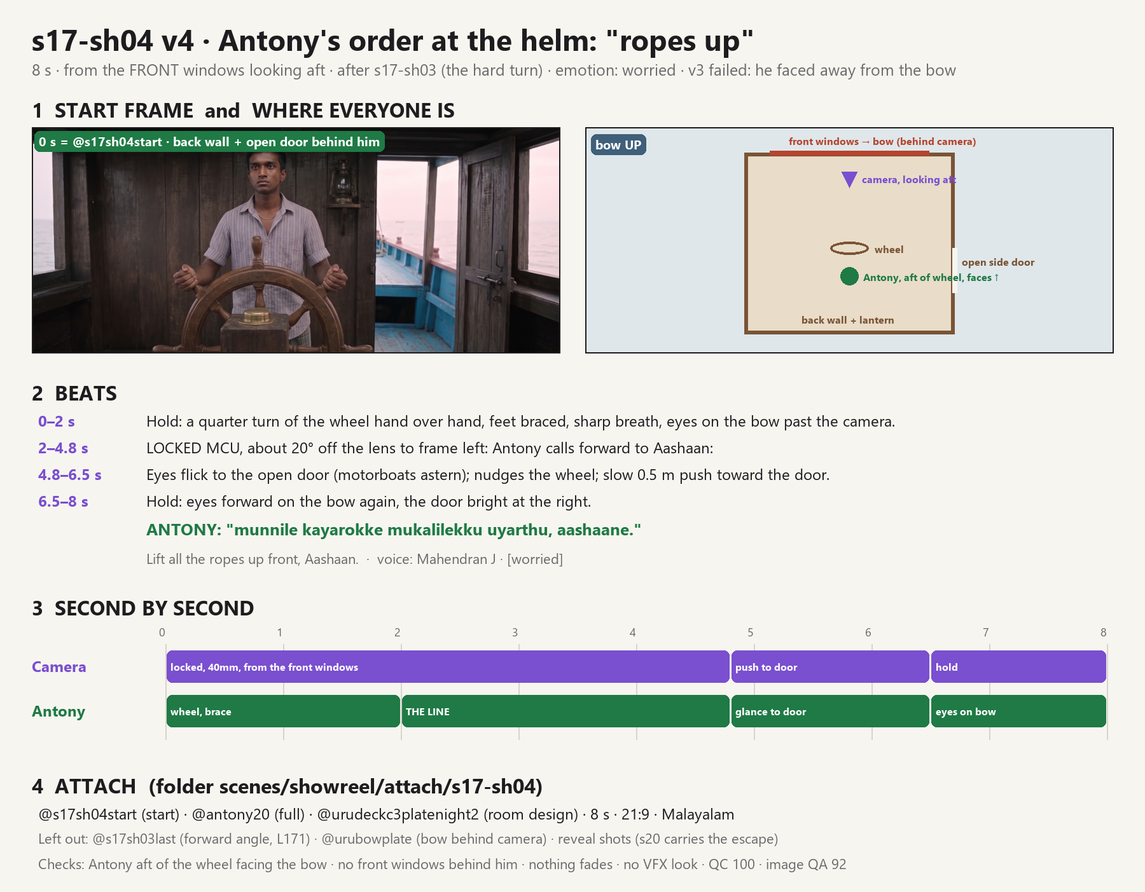
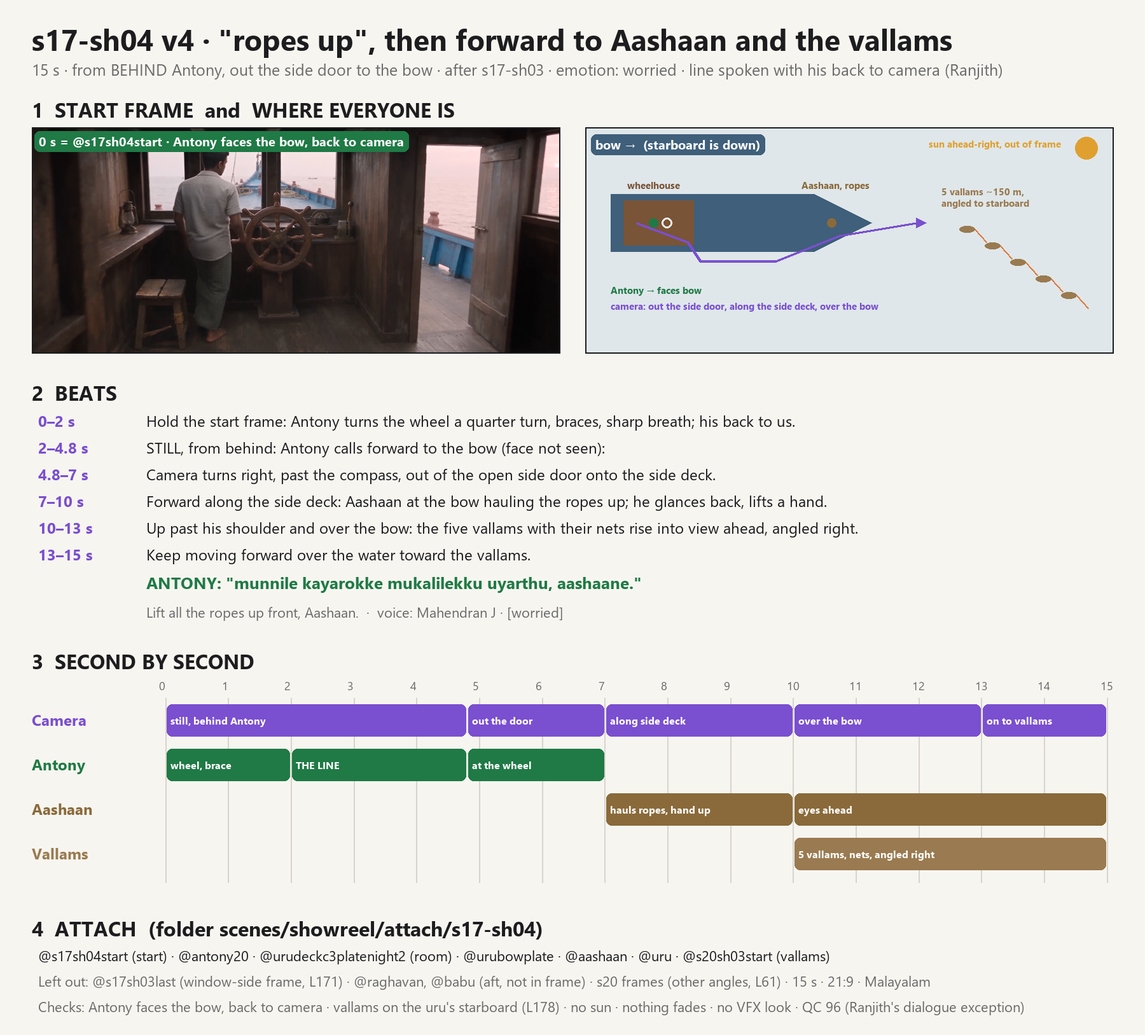
Ranjith: shot: s17-sh04 v4 rewritten (line from behind, travel to Aashaan at the bow and the five vallams, 15 s)

diff --git a/tools/shotsheets/s17-sh04.py b/tools/shotsheets/s17-sh04.py
@@ -1,45 +1,54 @@
-"""Clear sheet for s17-sh04 v4: Antony's order at the helm, from the front windows looking aft (SB025)."""
+"""Clear sheet for s17-sh04 v4: "ropes up" from behind Antony, then out of the side door to Aashaan at the bow and the five vallams (SB025)."""
 from PIL import Image, ImageDraw, ImageFont
 
 def F(sz, b=False):
     return ImageFont.truetype("C:/Windows/Fonts/" + ("segoeuib.ttf" if b else "segoeui.ttf"), sz)
 
 W = 1800
-INK, GREY, CAM, ANT, WOOD, SEA, WIN = "#1d1d1f", "#6b6b6b", "#7a4fd0", "#1f7a45", "#7a5436", "#3f5f7a", "#b5452f"
-im = Image.new("RGB", (W, 1700), "#f7f5f0"); d = ImageDraw.Draw(im)
+INK, GREY, CAM, ANT, AAS, WOOD, URU, VAL, SUN = "#1d1d1f", "#6b6b6b", "#7a4fd0", "#1f7a45", "#8a6a3a", "#7a5436", "#3f5f7a", "#9a7a50", "#e0a030"
+im = Image.new("RGB", (W, 1800), "#f7f5f0"); d = ImageDraw.Draw(im)
 def tag(xy, text, col, f=None):
     f = f or F(20, True); x, y = xy; tw = d.textlength(text, font=f)
     d.rounded_rectangle([x - 6, y - 4, x + tw + 8, y + 28], 8, fill=col); d.text((x + 1, y - 2), text, font=f, fill="white")
 
-d.text((50, 30), "s17-sh04 v4 · Antony's order at the helm: \"ropes up\"", font=F(46, True), fill=INK)
-d.text((50, 92), "8 s · from the FRONT windows looking aft · after s17-sh03 (the hard turn) · emotion: worried · v3 failed: he faced away from the bow", font=F(25), fill=GREY)
+d.text((50, 30), "s17-sh04 v4 · \"ropes up\", then forward to Aashaan and the vallams", font=F(46, True), fill=INK)
+d.text((50, 92), "15 s · from BEHIND Antony, out the side door to the bow · after s17-sh03 · emotion: worried · line spoken with his back to camera (Ranjith)", font=F(25), fill=GREY)
 
 y0 = 150
 d.text((50, y0), "1  START FRAME  and  WHERE EVERYONE IS", font=F(32, True), fill=INK)
 pw = 830; ph = int(pw / 2.333)
 a = Image.open("scenes/showreel/approved/sb025-chase/s17-sh04-start.png").convert("RGB").resize((pw, ph))
 im.paste(a, (50, y0 + 50)); d.rectangle([50, y0 + 50, 50 + pw, y0 + 50 + ph], outline=INK, width=2)
-tag((60, y0 + 60), "0 s = @s17sh04start · back wall + open door behind him", ANT)
-# top view of the wheelhouse: bow at the top
+tag((60, y0 + 60), "0 s = @s17sh04start · Antony faces the bow, back to camera", ANT)
+# top view: bow to the RIGHT, starboard is DOWN
 sx, sy, sw, sh = 920, y0 + 50, 830, ph
 d.rectangle([sx, sy, sx + sw, sy + sh], fill="#dfe7ea", outline=INK, width=2)
-rx0, ry0, rx1, ry1 = sx + 250, sy + 40, sx + 580, sy + sh - 30
-d.rectangle([rx0, ry0, rx1, ry1], fill="#e9dcc8", outline=WOOD, width=6)
-d.line([rx0 + 40, ry0, rx1 - 40, ry0], fill=WIN, width=8); d.text((rx0 + 70, ry0 - 30), "front windows → bow (behind camera)", font=F(16, True), fill=WIN)
-d.line([rx1, ry0 + 150, rx1, ry0 + 220], fill="#f7f5f0", width=8); d.text((rx1 + 12, ry0 + 160), "open side door", font=F(16, True), fill=WOOD)
-d.text((rx0 + 90, ry1 - 34), "back wall + lantern", font=F(16, True), fill=WOOD)
-cx = (rx0 + rx1) // 2
-d.ellipse([cx - 30, ry0 + 140, cx + 30, ry0 + 160], outline=WOOD, width=4); d.text((cx + 40, ry0 + 140), "wheel", font=F(16, True), fill=WOOD)
-d.ellipse([cx - 14, ry0 + 180, cx + 14, ry0 + 208], fill=ANT); d.text((cx + 22, ry0 + 184), "Antony, aft of wheel, faces ↑", font=F(16, True), fill=ANT)
-d.polygon([(cx - 12, ry0 + 30), (cx + 12, ry0 + 30), (cx, ry0 + 55)], fill=CAM); d.text((cx + 20, ry0 + 30), "camera, looking aft", font=F(16, True), fill=CAM)
-tag((sx + 15, sy + 15), "bow UP", SEA)
+my = sy + 150
+d.polygon([(sx + 40, my - 45), (sx + 360, my - 45), (sx + 450, my), (sx + 360, my + 45), (sx + 40, my + 45)], fill=URU)
+d.rectangle([sx + 60, my - 35, sx + 170, my + 35], fill=WOOD); d.text((sx + 66, my - 70), "wheelhouse", font=F(15, True), fill=WOOD)
+d.ellipse([sx + 120, my - 8, sx + 136, my + 8], outline="white", width=3)
+d.ellipse([sx + 100, my - 7, sx + 114, my + 7], fill=ANT); d.text((sx + 40, my + 95), "Antony → faces bow", font=F(15, True), fill=ANT)
+d.ellipse([sx + 380, my - 7, sx + 394, my + 7], fill=AAS); d.text((sx + 340, my - 70), "Aashaan, ropes", font=F(15, True), fill=AAS)
+path = [(sx + 80, my), (sx + 160, my + 30), (sx + 180, my + 60), (sx + 300, my + 60), (sx + 400, my + 20), (sx + 520, my)]
+d.line(path, fill=CAM, width=4)
+d.polygon([(sx + 520, my - 8), (sx + 520, my + 8), (sx + 536, my)], fill=CAM)
+d.text((sx + 40, my + 120), "camera: out the side door, along the side deck, over the bow", font=F(15, True), fill=CAM)
+for i in range(5):
+    vx, vy = sx + 600 + i * 40, my + 10 + i * 26
+    d.ellipse([vx - 12, vy - 5, vx + 12, vy + 5], fill=VAL)
+    d.line([vx + 12, vy, vx + 30, vy + 20], fill="#e07a40", width=2)
+d.text((sx + 560, my - 60), "5 vallams ~150 m,", font=F(15, True), fill=VAL); d.text((sx + 560, my - 42), "angled to starboard", font=F(15, True), fill=VAL)
+d.ellipse([sx + 770, sy + 15, sx + 805, sy + 50], fill=SUN); d.text((sx + 540, sy + 15), "sun ahead-right, out of frame", font=F(15, True), fill=SUN)
+tag((sx + 15, sy + 15), "bow →  (starboard is down)", URU)
 
 y1 = y0 + 90 + ph
 d.text((50, y1), "2  BEATS", font=F(32, True), fill=INK)
-beats = [("0–2 s", "Hold: a quarter turn of the wheel hand over hand, feet braced, sharp breath, eyes on the bow past the camera."),
-         ("2–4.8 s", "LOCKED MCU, about 20° off the lens to frame left: Antony calls forward to Aashaan:"),
-         ("4.8–6.5 s", "Eyes flick to the open door (motorboats astern); nudges the wheel; slow 0.5 m push toward the door."),
-         ("6.5–8 s", "Hold: eyes forward on the bow again, the door bright at the right.")]
+beats = [("0–2 s", "Hold the start frame: Antony turns the wheel a quarter turn, braces, sharp breath; his back to us."),
+         ("2–4.8 s", "STILL, from behind: Antony calls forward to the bow (face not seen):"),
+         ("4.8–7 s", "Camera turns right, past the compass, out of the open side door onto the side deck."),
+         ("7–10 s", "Forward along the side deck: Aashaan at the bow hauling the ropes up; he glances back, lifts a hand."),
+         ("10–13 s", "Up past his shoulder and over the bow: the five vallams with their nets rise into view ahead, angled right."),
+         ("13–15 s", "Keep moving forward over the water toward the vallams.")]
 yy = y1 + 50
 for t, s in beats:
     d.text((60, yy), t, font=F(24, True), fill=CAM); d.text((230, yy), s, font=F(24), fill=INK); yy += 42
@@ -48,10 +57,12 @@ d.text((230, yy), "Lift all the ropes up front, Aashaan.  ·  voice: Mahendran J
 
 y2 = yy + 70
 d.text((50, y2), "3  SECOND BY SECOND", font=F(32, True), fill=INK)
-tx, tw_ = 260, 1480; ty = y2 + 80; S = 8
-rows = [("Camera", CAM, [(0, 4.8, "locked, 40mm, from the front windows"), (4.8, 6.5, "push to door"), (6.5, 8, "hold")]),
-        ("Antony", ANT, [(0, 2, "wheel, brace"), (2, 4.8, "THE LINE"), (4.8, 6.5, "glance to door"), (6.5, 8, "eyes on bow")])]
-for sec in range(0, 9):
+tx, tw_ = 260, 1480; ty = y2 + 80; S = 15
+rows = [("Camera", CAM, [(0, 4.8, "still, behind Antony"), (4.8, 7, "out the door"), (7, 10, "along side deck"), (10, 13, "over the bow"), (13, 15, "on to vallams")]),
+        ("Antony", ANT, [(0, 2, "wheel, brace"), (2, 4.8, "THE LINE"), (4.8, 7, "at the wheel")]),
+        ("Aashaan", AAS, [(7, 10, "hauls ropes, hand up"), (10, 15, "eyes ahead")]),
+        ("Vallams", VAL, [(10, 15, "5 vallams, nets, angled right")])]
+for sec in range(0, 16):
     x = tx + tw_ * sec / S; d.line([x, ty, x, ty + 70 * len(rows) + 10], fill="#d8d4cc", width=2); d.text((x - 10, ty - 32), f"{sec}", font=F(18), fill=GREY)
 for i, (lab, col, segs) in enumerate(rows):
     yy = ty + 10 + i * 70; d.text((50, yy + 8), lab, font=F(24, True), fill=col)
@@ -64,9 +75,9 @@ for i, (lab, col, segs) in enumerate(rows):
 
 y3 = ty + 70 * len(rows) + 60
 d.text((50, y3), "4  ATTACH  (folder scenes/showreel/attach/s17-sh04)", font=F(32, True), fill=INK)
-d.text((60, y3 + 50), "@s17sh04start (start) · @antony20 (full) · @urudeckc3platenight2 (room design) · 8 s · 21:9 · Malayalam", font=F(24), fill=INK)
-d.text((60, y3 + 90), "Left out: @s17sh03last (forward angle, L171) · @urubowplate (bow behind camera) · reveal shots (s20 carries the escape)", font=F(22), fill=GREY)
-d.text((60, y3 + 130), "Checks: Antony aft of the wheel facing the bow · no front windows behind him · nothing fades · no VFX look · QC 100 · image QA 92", font=F(22), fill=GREY)
+d.text((60, y3 + 50), "@s17sh04start (start) · @antony20 · @urudeckc3platenight2 (room) · @urubowplate · @aashaan · @uru · @s20sh03start (vallams)", font=F(22), fill=INK)
+d.text((60, y3 + 90), "Left out: @s17sh03last (window-side frame, L171) · @raghavan, @babu (aft, not in frame) · s20 frames (other angles, L61) · 15 s · 21:9 · Malayalam", font=F(22), fill=GREY)
+d.text((60, y3 + 130), "Checks: Antony faces the bow, back to camera · vallams on the uru's starboard (L178) · no sun · nothing fades · no VFX look · QC 96 (Ranjith's dialogue exception)", font=F(22), fill=GREY)
 im = im.crop((0, 0, W, y3 + 190))
 im.save("scenes/showreel/storyboards/s17-sh04-clear.png")
 print(im.size)

diff --git a/scenes/showreel/s17-sh04.md b/scenes/showreel/s17-sh04.md
@@ -1,91 +1,99 @@
-# s17-sh04 · SB025 — Antony's order at the helm: "ropes up" · 8 s · v4
-Status: **ready (Ranjith, 2026-11-24)** · Malayalam dialogue · start image `@s17sh04start` (new reverse angle: from the front windows looking aft, Antony behind the wheel facing the bow and the camera, the back wall and the open side door behind him) · v3 kept in `retired/s17-sh04-v3.md`
+# s17-sh04 · SB025 — Antony's order at the helm, then forward to Aashaan at the bow and the five vallams ahead · 15 s · v4
+Status: **ready (Ranjith, 2026-11-24)** · Malayalam dialogue (spoken with his back to the camera, Ranjith's ask) · start image `@s17sh04start` (the first frame of the v3 take 2: inside the wheelhouse from behind, Antony aft of the wheel facing the bow, his back to the camera) · v3 kept in `retired/s17-sh04-v3.md`
 Created by: Ranjith
-v4 (Ranjith, 2026-11-24): the v3 takes put Antony on the window side of the wheel, facing the camera with the bow windows behind him, so he steered looking away from the bow (Ranjith: "logically correct. Incorrect."). L171: a face shot of the helmsman needs its own start frame from the front windows looking aft; a camera glide inside the shot does not work. Ranjith chose the camera **Use this camera move** (new start frame from the front windows looking aft, locked for the line, then a slow push toward the open door) and **only the order, about 8 s**: the escape reveal is carried by s20-sh01 to s20-sh05.
-Story: after the hard turn (Part A, s17-sh03), Antony at the wheel calls forward to Aashaan at the bow to lift the ropes at the front (storyboard SB025, line 3), then glances to the side door, toward the motorboats astern.
-Camera: inside the wheelhouse, beside the front windows (behind the camera, never in frame), 1.6 m up, 40mm, looking aft at Antony behind the wheel; locked through the line; then a slow push of about 0.5 m toward the open side door on the right as his eyes go to it.
+v4 (Ranjith, 2026-11-24): the v3 takes turned Antony round to face the camera with the bow windows behind him, so he steered looking away from the bow (Ranjith: "logically correct. Incorrect."). A face-on start frame from the front invented a back wall the wheelhouse does not have (Ranjith: "the wheelshouse is not like that right"). Ranjith's fix: "antony should stand looking at the direction of bow" and "the camera can show his back and he tells the dialogue and it should show ashan who walked to the front and the camera should travel and then show the 5 vallams and camera should move on". So the camera stays behind Antony for the line, then travels out of the side door and forward along the side deck to Aashaan at the bow, and on past the bow to the five vallams ahead, and keeps moving. Camera: Ranjith's own move.
+Story: after the hard turn (Part A, s17-sh03), Antony at the wheel calls forward to Aashaan at the bow to lift the ropes at the front (storyboard SB025, line 3); Aashaan, already at the bow, hauls the bow ropes up off the deck; ahead lie the five fishing vallams with their nets, where the uru is going (they set up s20).
 Dialogue (storyboard SB025, authoritative Manglish: munnile kayar oke mukallilekyu uyarth ashaane): ANTONY — മുന്നിലെ കയറൊക്കെ മുകളിലേക്ക് ഉയർത്ത്, ആശാനേ.
 MANG: munnile kayarokke mukalilekku uyarthu, aashaane. EN: Lift all the ropes up front, Aashaan.
 Voice: Antony = **Mahendran J**. Scene emotion: [worried] (one for SB025).
-Lessons applied: L171 (helmsman aft of the wheel facing the bow; face shot from the front windows, back wall behind him; reverse angle on its own start frame), L83 (he keeps moving), L141, L147, L159, L160, checklist 190–201 (195 no VFX; 201 nothing fades).
-Attach: `@s17sh04start` (start image), `@antony20` (full), `@urudeckc3platenight2` (the room's design). No end image. Remove every other attachment (L88). **8 s.** 21:9, Malayalam.
-Left out: `@s17sh03last` (the forward-looking angle that caused the flip, L171/L61); `@urubowplate` (the bow is behind the camera, never in frame); `@uru`, `@raghavan`, `@babu`, `@s17sh01last` (the reveal is cut; s20 shots carry it); `@aashaan` (at the bow, behind the camera).
+Dialogue rule exception (Ranjith, 2026-11-24): Antony says his line with his back to the camera, calling forward to the bow; his face is not shown. The rest of the dialogue block stays (one speaker, nobody else speaks, the camera holds still during the line).
+Geometry (L178, for s20): the five vallams lie ahead in a line angled to the RIGHT of the uru's course; the uru heads for the left end of the line, so it passes the nets with the vallams on its starboard (right) side, as in s20-sh04 and s20-sh05. The low sun is ahead-right of the bow, kept just out of frame at the right.
+Lessons applied: L171 (the helmsman aft of the wheel facing the bow; no swing round), L178 (vallams on the uru's starboard), L170 (things enter from a frame edge as the camera moves), L83 (everyone moving), L141, L147, L159, L160, checklist 190–201 (195 no VFX; 201 nothing fades).
+Attach: `@s17sh04start` (start image), `@antony20` (full, 0–7 s), `@urudeckc3platenight2` (the room's design, 0–7 s), `@urubowplate` (the bow deck, 0–15 s), `@aashaan` (full, 6–15 s), `@uru` (full, 6–15 s), `@s20sh03start` (reference: the five vallams with their float lines, 9–15 s). No end image. Remove every other attachment (L88). **15 s.** 21:9, Malayalam.
+Left out: `@s17sh03last` (Part A's frame with Antony on the window side, the cause of the flip, L171); `@raghavan`, `@babu` (on the top deck aft, never in frame); `@s20sh04last` and the other s20 frames (other angles, L61; they come later).
 Platform: upload `approved/sb025-chase/s17-sh04-start.png` as `@s17sh04start`.
 Attach folder: `scenes/showreel/attach/s17-sh04/`
 Storyboard: `scenes/showreel/storyboards/s17-sh04-clear.png` (never attached)
-Image QA of @s17sh04start: 92/100. Antony matches `@antony20` (lavender-grey thin-striped shirt, sleeves rolled once, silver chain, checked mundu, combed-back hair); he stands aft of the wheel facing the camera and the bow; behind him the plank back wall with the lantern on its bracket and the plank side door standing open on the right onto the blue side deck and the hazy sea; the room's plank walls, beams and wheel match the wheelhouse plate; no front windows behind him (only the side windows at the frame edges); reads as real footage. Flag: his eyes are near the lens in the image; the prompt sets them about 20 degrees off to frame left, on the bow.
-PROMPT QA — s17-sh04 v4 · Score 100/100 · Ready (qc_panel.py 100).
+Image QA of @s17sh04start: 93/100. The real wheelhouse (three square front windows with the blue bow deck, mast and rope coils, the spoked wheel with the brass hub, compass and telegraph on the sill, lantern on the left shelf, stool, open plank door on the right onto the blue side deck); Antony matches `@antony20` from behind (lavender-grey shirt, checked mundu, barefoot), aft of the wheel facing the bow; reads as real footage. Flag: a bright sun glint at the top right edge through the side window; the prompt keeps the sun out of frame.
+PROMPT QA — s17-sh04 v4 · Score 96/100 · Ready, with Ranjith's exception (qc_panel.py 96): the only flag is the DIALOGUE RULES block, replaced on purpose because the standard block (face to camera in MCU) is what turned Antony round to face away from the bow; Ranjith asked for the line with his back to the camera.
 
 ## Prompt
 ```text
 SCENE CONTEXT
-Dawn, 1998, open sea in Sri Lankan waters. Inside the small wooden wheelhouse at the front of our uru's deckhouse. Antony has the wheel; the uru has just come round hard past the end of a line of fishing nets with three motorboats close behind. He stands in the helmsman's place behind the wheel, facing the bow and the front windows, and calls one Malayalam order forward to the old skipper at the bow, then glances to the open side door. The camera is at the front of the wheelhouse beside the front windows, looking aft at him: the front windows and the bow are behind the camera; behind Antony is the back wall and the open side door. One continuous shot, 8 seconds, starting exactly on the start frame. Emotion (one, for the whole shot): worried. Only Antony speaks, only in Malayalam, while he is alone in frame.
+Dawn, 1998, open sea in Sri Lankan waters. Inside the small wooden wheelhouse at the front of our uru's deckhouse, seen from behind: Antony has the wheel, the uru has just come out of a hard turn with three motorboats close behind, and he stands behind the wheel facing the bow through the three front windows, his back to the camera. He calls one Malayalam order forward to Aashaan at the bow. Then the camera travels out of the open side door and forward along the side deck to Aashaan at the bow, who is hauling the bow ropes up off the deck, and on past the bow to the five fishing vallams with their nets ahead, where the uru is going, and keeps moving. One continuous shot, 15 seconds, starting exactly on the start frame. Emotion (one, for the whole shot): worried. Only Antony speaks, only in Malayalam.
 SPOKEN LANGUAGE: Malayalam. Every spoken word in this video is the exact Malayalam text given in quotes in AUDIO. No English words are spoken.
 
 MEMORY
-Place: the small wooden wheelhouse exactly as in the start frame, seen from its front, looking aft: the weathered dark plank back wall with an oil lantern on an iron bracket, beams overhead, a narrow side window at each edge of the frame with the hazy sea in it; on the right wall the plank door with its iron bolt standing open onto the uru's blue side deck and blue bulwark, the pale pink-grey dawn sea and sky beyond. In the foreground the spoked wooden wheel, about 90 cm across, eight spokes with turned handles, a brass hub on a square timber pedestal.
-Antony: behind the wheel, on its aft side, facing the camera and the bow.
-Light: hazy pink-grey dawn daylight about 5800K coming in through the front windows behind the camera, soft and even on Antony's face; the doorway bright pale pink.
-FIRST FRAME (0.0s): exactly the start frame: Antony behind the wheel facing the camera, both hands on the spokes, the back wall, the lantern and the open side door behind him.
+Place, inside: the small wooden wheelhouse exactly as in the start frame, seen from behind the wheel looking forward: three square front windows in thick dark wooden frames with iron latches; through them the uru's blue bow deck with blue bulwarks, red-brown bitts and coir rope coils, the mast, and the calm hazy pink-grey sea; the spoked wooden wheel with a brass hub on a square timber pedestal; a brass compass and an engine-telegraph lever on the sill at the right; the oil lantern on the shelf on the left wall and a small wooden stool; the weathered plank wall on the right with the plank door standing open onto the blue side deck and the sea.
+Place, outside: the uru's blue starboard side deck and blue bulwark running forward to the bow; the blue triangular bow deck rising to the pointed stem, red-brown mooring bitts in pairs, big coir rope coils; ahead, about 150 m off, five small wooden fishing vallams in a line angled away to the RIGHT of the uru's course, fishermen standing in them, their nets in the water marked by lines of small white and orange floats.
+People: Antony at the wheel; Aashaan at the bow, not visible from the wheelhouse until the camera reaches the side deck; the fishermen in the vallams.
+Light: hazy pink-grey dawn, soft daylight about 5800K; the low sun ahead-right of the bow, always just out of frame at the right; the sea calm grey-pink with a low swell.
+FIRST FRAME (0.0s): exactly the start frame: from behind, Antony standing aft of the wheel facing the front windows and the bow, his back to the camera, his right hand on the wheel; the three front windows with the blue bow deck and the sea; the lantern and the stool at the left; the open side door at the right.
 
 ACTIVE REFERENCES
-@s17sh04start (start frame, 0.0s): the exact first frame: Antony behind the spoked wheel, facing the camera and the bow, the plank back wall with the lantern behind him, the open side door on the right with the blue side deck and the hazy sea. Everything starts exactly as in this image.
-@antony20 (full, 0.0s–8.0s): Antony, the young sailor, the only speaker, alone in frame: a young Kerala man about 22, round youthful clean-shaven face, short black hair combed back with a few loose strands, the lavender-grey and white thin vertical striped short-sleeve shirt with the sleeves rolled once, a thin silver chain, the grey-green checked mundu, barefoot. A native Malayalam speaker from the Kollam coast; a firm young male voice, slightly out of breath. 100% matches the reference.
-@urudeckc3platenight2 (the room's design, 0.0s–8.0s): our wheelhouse exactly as built on this plate: the weathered plank walls, the spoked wooden wheel with its brass hub on the square timber pedestal, the lantern, the plank door with the iron bolt, the beams overhead. It is a night view; take the room, the materials and every fixture from it, NOT its night, NOT its moon, NOT its lit lantern, and NOT its camera angle. 100% matches the reference.
+@s17sh04start (start frame, 0.0s): the exact first frame: the wheelhouse from behind, Antony aft of the wheel facing the bow, his back to the camera, the three front windows with the bow deck, the lantern and stool at the left, the open side door at the right. Everything starts exactly as in this image.
+@antony20 (full, 0.0s–7.0s): Antony, the young sailor, the only speaker, seen from behind: a young Kerala man about 22, short black hair combed back, the lavender-grey and white thin vertical striped short-sleeve shirt with the sleeves rolled once, the grey-green checked mundu, barefoot. A native Malayalam speaker from the Kollam coast; a firm young male voice, slightly out of breath. 100% matches the reference.
+@urudeckc3platenight2 (the room's design, 0.0s–7.0s): our wheelhouse exactly as built on this plate: the weathered plank walls, the three square front windows with iron latches, the spoked wooden wheel with its brass hub on the square timber pedestal, the brass compass and the engine-telegraph lever on the sill, the lantern on the shelf on the left wall, the stool, the plank door on the right wall, the beams overhead. It is a night view; take the room from it, NOT its night, NOT its moon, NOT its lit lantern. 100% matches the reference.
+@urubowplate (the bow deck, 0.0s–15.0s): our uru's bow: the blue-painted triangular bow deck rising to the pointed stem, low blue bulwarks with red-brown posts, red-brown mooring bitts, the coir rope coils. It is a night plate; take the bow from it, lit by the pink-grey dawn, NOT its night and NOT its lit lantern. 100% matches the reference.
+@aashaan (full, 6.0s–15.0s): Aashaan the old skipper at the bow: about 60, grey hair combed back, grey moustache, a cream half-sleeve shirt open over a white vest, a white towel on his left shoulder, a white mundu. 100% matches the reference.
+@uru (full, 6.0s–15.0s): our uru, of which the side deck, the bulwark, the bow and the mast are in frame. 100% matches the reference.
+@s20sh03start (reference for the vallams, 9.0s–15.0s): the five small wooden fishing vallams with fishermen standing in them and their nets marked by lines of small white and orange floats on the calm dawn sea. Take the vallams, the floats and the fishermen from it; this shot sees them from the uru's bow, about 150 m ahead. 100% matches the reference.
 
-THE HELM (most important)
-Antony stands on the AFT side of the wheel, between the wheel and the back wall, facing the bow, which is behind the camera; the wheel is between him and the camera the whole time. He never steps round the wheel, never stands between the wheel and the camera, and never turns his back to the camera. Behind him there is only the back wall, the lantern and the open side door; the front windows and the bow are never in the frame. From 2.0s to 4.8s he calls his one Malayalam line forward to Aashaan at the bow in a medium close-up, his face about a third of the frame height, toward the camera about 20 degrees off the lens to frame left, looking past the camera at the bow, head steady, mouth fully visible, alone in frame.
+ANTONY AT THE WHEEL (most important)
+Antony stands aft of the wheel the whole time, facing the bow and the front windows, his back to the camera; he never turns round to face the camera and never steps to the window side of the wheel. From 2.0s to 4.8s he calls his one Malayalam line forward through the windows to Aashaan at the bow, his head up and pushed a little forward to throw his voice, both hands on the spokes; the camera stays still behind him while he speaks. His face is not seen; only his voice carries the line.
 
 FORMAT MODE
-One continuous shot, 8 seconds, real time, no cut, no slow motion, 21:9 cinematic. Runs the full 8 seconds.
+One continuous shot, 15 seconds, real time, no cut, no slow motion, 21:9 cinematic. Runs the full 15 seconds.
 
 CAMERA AND ACTION
-The camera stands at the front of the wheelhouse beside the front windows, 1.6 m up, a 40mm lens, looking aft at Antony over the wheel.
-0.0s to 2.0s — Hold on the start frame: Antony turns the wheel a quarter turn to the right, hand over hand, then holds it, bracing his feet wide; a sharp breath in, his eyes forward past the camera on the bow.
-2.0s to 4.8s — Locked: he calls his line forward to Aashaan at the bow, head steady, both hands on the spokes, eyes on the bow about 20 degrees off the lens to frame left.
-4.8s to 6.5s — His eyes flick to the open side door on the right, toward the motorboats astern; his jaw sets; he nudges the wheel back a spoke; the camera pushes slowly about 0.5 m toward the open door, Antony moving to the left of the frame, the doorway and the bright hazy sea growing at the right.
-6.5s to 8.0s — Hold: Antony back at the wheel, eyes forward on the bow again, the open door bright at the right.
+One smooth continuous handheld-steadied camera move, 1.6 m up, 28mm.
+0.0s to 2.0s — Hold on the start frame: Antony grips the wheel with both hands and turns it a quarter turn to the right, hand over hand, then holds it, bracing his feet wide; his shoulders rise with a sharp breath.
+2.0s to 4.8s — Still: from behind, Antony calls his line forward through the windows to the bow, his head up, both hands on the spokes, his back to the camera.
+4.8s to 7.0s — The camera turns right and glides past the compass and the telegraph lever to the open side door and out through it onto the blue starboard side deck, Antony leaving the frame at the left; it turns to look forward along the side deck and the blue bulwark toward the bow.
+7.0s to 10.0s — The camera travels forward along the side deck toward the bow, rising a little; Aashaan comes into view at the bow from the frame edge as the camera moves, bent over the coir rope coils, hauling the ropes up off the deck hand over hand and coiling them high on the bitts; he glances back toward the wheelhouse and lifts one hand.
+10.0s to 13.0s — The camera rises past Aashaan's right shoulder and over the bow, the stem and the bow deck in the lower frame, and the five fishing vallams come up into view ahead from the bottom of the frame upward, about 150 m off, in a line angled away to the right, the fishermen standing, their float lines across the water.
+13.0s to 15.0s — The camera keeps moving forward over the water ahead of the bow toward the vallams, slowly, the bow stem just below the frame, the vallams growing a little larger.
 
 EYELINES
-0.0s–4.8s: forward past the camera at the bow, about 20 degrees off the lens to frame left, level; never into the lens. 4.8s–6.5s: to the open side door on the right. 6.5s–8.0s: forward on the bow again.
+0.0s–4.8s: Antony looks forward through the windows at the bow. Aashaan, from 7.0s: down at the ropes, a glance back at the wheelhouse at 9.0s, then ahead at the vallams. The fishermen look at the uru coming. Nobody looks into the lens.
 
 DIALOGUE RULES
-Dialogue rules: whenever a character speaks, frame them in a medium close-up with their face filling at least a third of the frame height. The speaking face is turned toward the camera, no more than 30 degrees from the lens, upright and not lying sideways. Only one person speaks in the shot; everyone else keeps their mouth closed. The speaker's head stays steady during the line; head turns, gestures and camera moves happen only in pauses between lines. The mouth is always fully visible, with nothing in front of the face, and the face is lit with soft, even frontal light. Natural, clearly articulated mouth movements matching the dialogue.
+Only one person speaks in the shot: Antony; everyone else keeps their mouth closed. Antony says his line with his back to the camera, calling forward to the bow; his face is not in the frame while he speaks. The camera holds still while he speaks; camera moves happen only after the line. The voice is clear, close and natural, matching his breath and the movement of his head.
 
 ACTING & MICRO-EXPRESSION
-Breath fast and high, nostrils flared; the jaw set and the knuckles pale on the spokes; on the brace the brows pull hard together and the eyes narrow; during the line the eyes fixed on the bow with one blink, the chin up to throw the voice forward, certain, not panicked; after it a hard swallow and the quick glance to the door.
+Antony from behind: the shoulders up and tight, the knuckles pale on the spokes, the head pushed forward to throw the voice, a hard breath in before the line, the back settling as he holds the wheel after it. Aashaan: an old sailor's sure hands on the rope, quick and steady, no hurry and no wasted movement; the raised hand saying he heard.
 
 CAPTURE IMPERFECTIONS
-A constant small vibration from the engine; 1.0s a slight jolt as the hull bites into the turn; 5.5s a soft focus breath as the camera pushes toward the door.
+A constant small vibration from the engine; 1.0s a slight jolt as the hull comes out of the turn; 5.5s the frame brushes past the door frame edge as it goes out; 8.0s spray from the bow wave drifts past the lens edge; 12.0s a slight focus breath as the vallams come into view.
 
 REAL-WORLD PHYSICS
-The uru, about 30 tonnes of wood, moves at about 13 km/h, coming upright out of its hard turn, heeled about 3 degrees at the start; the wheel's rudder chain pulls against his hands, and each turn takes his whole arms; through the open door the sea slides slowly past; the lantern sways a little on its bracket with the roll. Wind about 15 km/h through the door lifts his loose strands of hair. Nothing moves by itself; every movement has a cause.
+The uru, about 30 tonnes of wood, moves at about 13 km/h, coming upright out of its turn, rolling gently on the low swell; the wheel's rudder chain pulls against Antony's hands; the coir ropes are heavy and wet, coming up off the deck in loops; the bow lifts and settles on the swell, throwing a white bow wave; the vallams rise and fall where they lie. Wind about 15 km/h lifts hair and the towel on Aashaan's shoulder. Nothing moves by itself; every movement has a cause.
 
 PERFORMANCE
-A young sailor in command for the first time: fast hands, a clear order, the fear held down. Always moving, never stiff.
+Urgent and real, never stiff: a young sailor's first order at the wheel and the old skipper answering it at once with his hands; the danger behind, the way out ahead.
 
 LIGHTING
-Soft, even pink-grey dawn daylight about 5800K on Antony's face from the front windows behind the camera; warm dark wood around him; the open doorway bright pale pink, never blown out; no golden light.
+Inside: the soft pink-grey dawn through the front windows, warm dark wood, Antony a dark shape against the bright windows with soft light on his shoulders. Outside: the same soft pink-grey dawn, about 5800K, the low sun just out of frame at the right, warm light on Aashaan and the bow, the sea bright but never blown out; no golden light.
 
 AUDIO
-Sound effects only — natural on-location sound, the soundtrack carries no music. No music at all: no score, no background music, no song, no humming, and no cinematic sound design: no riser, no whoosh, no swell. The outboards screaming astern through the open door; the rudder chain; the creaking wheel; the hull groaning out of the turn; his hard breathing; his bare feet bracing on the boards.
-Spoken language: Malayalam only, not English and not a translation. Antony says the exact Malayalam words written in quotes below, in everyday Kollam coastal Malayalam pronunciation, and nothing else. Lip-sync exact; every word is spoken on camera by Antony, who is alone in frame. The line is spoken once, exactly as written. The dialogue language is Malayalam.
+Sound effects only — natural on-location sound, the soundtrack carries no music. No music at all: no score, no background music, no song, no humming, and no cinematic sound design: no riser, no whoosh, no swell. Inside: the outboards screaming astern, the rudder chain, the creaking wheel, his hard breathing and bare feet on the boards. Outside: the wind, the hiss of the bow wave, the heavy slap of the wet ropes on the deck, Aashaan's breath as he hauls; far ahead, the fishermen's distant calls, no words heard.
+Spoken language: Malayalam only, not English and not a translation. Antony says the exact Malayalam words written in quotes below, in everyday Kollam coastal Malayalam pronunciation, and nothing else. Every word is spoken by Antony, with his back to the camera. The line is spoken once, exactly as written. The dialogue language is Malayalam.
 
 [worried]
 2.0s to 4.8s: Antony, Kollam coastal accent, a young voice raised to carry forward over the engines, clear and firm, not a scream; the stress on "മുകളിലേക്ക്"; a tiny pause at the comma; the name called out a little longer at the end with a falling pitch. About 2.8 seconds.
 "മുന്നിലെ കയറൊക്കെ മുകളിലേക്ക് ഉയർത്ത്, ആശാനേ."
-Nobody else speaks. From 4.8s to 8.0s nobody speaks.
+Nobody else speaks. From 4.8s to 15.0s nobody speaks.
 
 STYLE
 Photoreal 1998 Kerala period feature film, Every frame looks like real footage filmed on a real wooden boat at sea, never like VFX or CGI: real water with real foam, spray and reflections, real wood, real skin and cloth, every boat and person sitting in the same light and haze as the rest of the frame, with soft natural edges and real contact shadows; no composited or pasted-in look, no glowing outlines, no 3D-render or game look, no over-clean water, no digital smoke; the haze is real sea mist. 24fps, fine 35mm grain, gentle halation on the spray, the windows and the haze, visible skin texture and real pores, real weathered wood grain and water, no smoothing. Shot on a Sony Venice 2 full-frame digital cinema camera: very wide dynamic range that holds the brightest light and the deepest shade in one frame; clean, low-noise shadows; soft, gradual highlight roll-off; accurate, natural colour with rich, true skin tones; gentle filmic contrast; fine, organic texture; no over-sharpening, no glossy or video look. Hazy pink-grey dawn.
 
 CONSTRAINTS
-The shot starts exactly on the start frame and the wheelhouse never changes. Antony stays behind the wheel on its aft side the whole time, facing the bow and the camera, the wheel between him and the camera; he never steps round it and never turns his back to the camera. The front windows and the bow are never in the frame; behind Antony only the back wall, the lantern and the open side door. While Antony speaks he is the only person in the frame; exactly one wheel. Nobody comes through the door. Nothing fades in or out. No English words, no subtitles, no lettering. No hand or object near the lens. No cut, no zoom.
+The shot starts exactly on the start frame and the wheelhouse never changes. Antony stays aft of the wheel facing the bow with his back to the camera; he never turns to face the camera. Exactly one wheel, inside the wheelhouse. Aashaan is at the bow, hauling the ropes; he never speaks. Exactly five vallams, in a line angled to the right of the uru's course, about 150 m ahead; no motorboats in this view. The sun stays out of the frame. Nothing fades in or appears out of nothing; everything enters the frame from an edge as the camera moves. No English words, no subtitles, no lettering. No hand or object near the lens. No cut, no zoom.
 
 POSITIVE LOCKS
-Starts on the start frame. Antony behind the wheel facing the bow and the camera, the back wall and the open side door behind him, the whole time. Exactly one Malayalam line, Antony's, spoken once in Malayalam from 2.0s to 4.8s, alone in frame, eyes on the bow about 20 degrees off the lens. The glance to the door and the slow push after the line. Antony moving the whole time. Runs the full 8 seconds.
+Starts on the start frame. Antony aft of the wheel facing the bow, back to the camera, the whole time he is in frame. Exactly one Malayalam line, Antony's, spoken once in Malayalam from 2.0s to 4.8s, the camera still. Then one continuous move out of the side door, forward along the side deck to Aashaan hauling the bow ropes, over the bow to the five vallams ahead, still moving forward at the end. Everyone moving the whole time. Runs the full 15 seconds.
 
-INTENT: When @antony20 says "മുന്നിലെ കയറൊക്കെ മുകളിലേക്ക് ഉയർത്ത്, ആശാനേ." let it be his first order as the man at the wheel: fast, sure, the fear held down under a clear voice, facing where the uru is going.
+INTENT: When @antony20 calls "മുന്നിലെ കയറൊക്കെ മുകളിലേക്ക് ഉയർത്ത്, ആശാനേ." let it be his first order as the man at the wheel, answered at once by the old skipper's hands, and let the camera carry us to the way out: the fishermen's nets ahead.
 ```
 
 ## Generation results

diff --git a/scenes/showreel/attach/s17-sh04/README.md b/scenes/showreel/attach/s17-sh04/README.md
@@ -1,3 +1,3 @@
 # s17-sh04 v4 attach
-@s17sh04start (start) · @antony20 (full) · @urudeckc3platenight2 (room design). 8 s, 21:9, Malayalam. Voice: Mahendran J.
+@s17sh04start (start) · @antony20 (full, 0-7 s) · @urudeckc3platenight2 (room design, 0-7 s) · @urubowplate (bow deck) · @aashaan (full, 6-15 s) · @uru (full, 6-15 s) · @s20sh03start (vallams reference, 9-15 s). 15 s, 21:9, Malayalam. Voice: Mahendran J.
 old-v3/ holds the v3 attachments; do not attach them.
